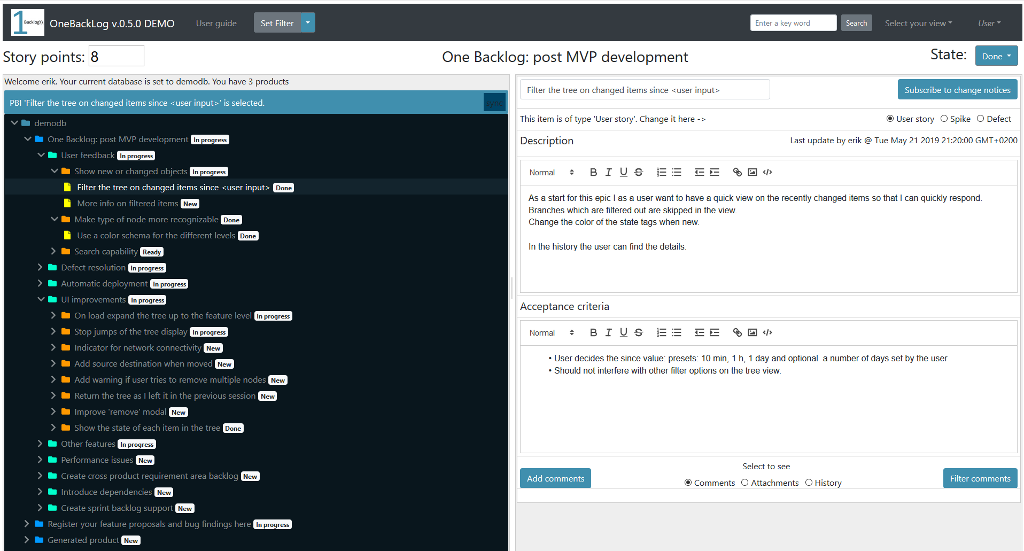
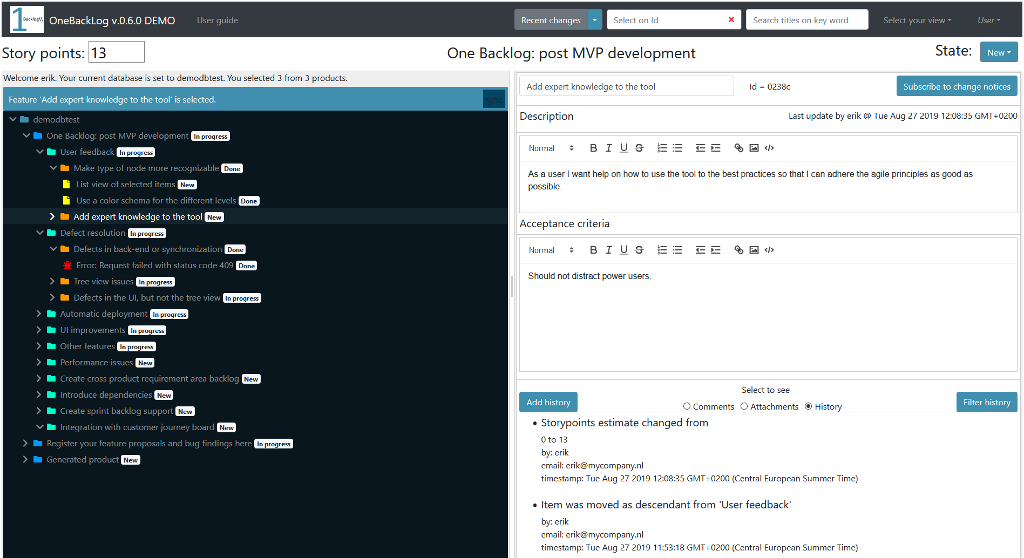
Prepare for release

diff --git a/src/components/userguide/userguide.vue b/src/components/userguide/userguide.vue
@@ -5,15 +5,24 @@
 				<h1>USER GUIDE</h1>
 				<p v-if=this.$store.state.demo>Note: This is a demo version of the application. Do not use it for production.</p>
 				<h4>The header</h4>
-				<p class="indent10">Always mention the version number located after the app name when reporting issues. When you click on the release number you will get the <b>realease notes</b>.</p>
+				<p class="indent10">Always mention the version number located after the app name when reporting issues. When you click on the release number you will the <b>realease notes </b> will be displayed.</p>
 				<h5>User guide</h5>
 				<p class="indent10">This text</p>
 				<h5>Filter on time</h5>
 				<p class="indent10">With the split button next to the 'user guide' you can open a drop down list with 3 choices: Show the changes in the last 10 minutes, in the last hour and in the last 24 hours. After selecting an option the items changed in the chosen time frame will be selected. Branches not changed will not show. To return to the normal view press the button which now has the text 'Clear filter'. Note that this function works on the currently selected product. To see changes on another product select it first by clicking on one of its nodes.</p>
+				<h5>Select on Id</h5>
+				<p class="indent10">All product items have a short Id for easy lookup and reference. This Id is 5 characters long. It is displayed in the product view right from the item title. When you select on an Id:
+				<ul>
+					<li>The item is found in the currently selected and opened product. The item will be selected and highlighted in the tree view.</li>
+					<li>The item is found in the currently selected product but that product is not opened. The product will be opened and item will be selected and highlighted in the tree view</li>
+					<li>The item is found in a product assigned to you which is not selected. You get a message but the item is displayed anyway.</li>
+					<li>The item is found in a product NOT assigned to you. You get a message but the item is NOT accessable to you.</li>
+					<li>The item is NOT found in the database. You get a message. Check if you made a mistype.</li>
+					<li>More than one item with this Id was found. You get a message dat the first occurrence was picked. This unlikely event is logged for the server admin. Contact him/her and agree on which item should become a new short Id.</li>
+				</ul>
+				To undo the select clear the 'Select on Id' input field and press Enter.</p>
 				<h5>Search on key word</h5>
-				<p class="indent10">Input field for the search button. Searches for the keyword in the title of all items of the current product. To return to the normal view empty the search field and press enter or empty the search field and click the search button.</p>
-				<h5>Search button</h5>
-				<p class="indent10">When clicked all items in the current product with the keyword in the title will expand.</p>
+				<p class="indent10">Input field for the search button. Searches for the keyword in the title of all items of the current product. To return to the normal view empty the search field and press enter.</p>
 				<h5>Filter on time + Search on key word</h5>
 				<p class="indent10">When you start a search when a filter is in effect or visa versa the other selection will be cleared first. You cannot have two selections on top of each other.</p>
 				<h5>Select your view</h5>
@@ -21,10 +30,16 @@
 				<p class="indent10"><a href="#rv">Requirements areas view</a></p>
 				<p class="indent10"><a href="#sv">Setup view</a></p>
 				<h5>User</h5>
-				<p class="indent10">Change team: not yet implemented.</p>
-				<p class="indent10">Change password: not yet implemented.</p>
-				<p class="indent10">License information: click to see the license regarding the source code.</p>
-				<p class="indent10">Sign out: Preferred way to sign out. Will stop the cookie authentication and reset the URL to sign in again. When you reset your browser with F5 or Ctrl-F5 you need to reset the URL your self.</p>
+				<p class="indent10">
+				<ul>
+					<li>Change team: Not yet implemented.</li>
+					<li>Select products: If multiple products are assigned to you, you can choose which of the should load on sign-in. You also need to choose which is the default product which loads first and open automatically.</li>
+					<li>Change password: You need to know your old password. The password of user demoUser cannot be changed.</li>
+					<li>License information: click to see the license regarding the source code.</li>
+					<li>Sign out: Preferred way to sign out. Will stop the cookie authentication and reset the URL to sign in again. When you reset your browser with F5 or Ctrl-F5 you need to reset the URL your self.</li>
+				</ul>
+				</p>
+
 				<div id="pv">
 					<h4>Products view</h4>
 					<p class="indent10">The products view is the heart of the application. Here are the product backlog items created, maintained during their life cycle and prioritized by the product owner.</p>
@@ -114,30 +129,29 @@
 </template>
 
 <style lang="css" scoped>
-	.left-column {
-		text-align: left;
-		background-color: #408FAE;
-		color: white;
-		border: 1px solid black;
-	}
+.left-column {
+  text-align: left;
+  background-color: #408fae;
+  color: white;
+  border: 1px solid black;
+}
 
-	.indent10 {
-		margin-left: 10px;
-		color: black;
-	}
+.indent10 {
+  margin-left: 10px;
+  color: black;
+}
 
-	.indent20 {
-		margin-left: 20px;
-		color: black;
-	}
+.indent20 {
+  margin-left: 20px;
+  color: black;
+}
 
-	a {
-		color: black;
-		text-decoration: underline;
-	}
+a {
+  color: black;
+  text-decoration: underline;
+}
 
-	img {
-		margin-bottom: 10px
-	}
-
+img {
+  margin-bottom: 10px;
+}
 </style>

diff --git a/src/store/modules/setup.js b/src/store/modules/setup.js
@@ -70,6 +70,7 @@ const actions = {
 		// create a new document and store it
 		const newDoc = {
 			"_id": _id,
+			"shortId": _id.slice(-5),
 			"type": "backlogItem",
 			"productId": _id,
 			"parentId": 'root',
@@ -139,6 +140,7 @@ const actions = {
 		// create a new document and store it
 		const newDoc = {
 			"_id": _id,
+			"shortId": _id.slice(-5),
 			"type": "backlogItem",
 			"productId": payload.productId,
 			"parentId": payload.parentId,
@@ -210,6 +212,7 @@ const actions = {
 		// create a new document and store it
 		const newDoc = {
 			"_id": _id,
+			"shortId": _id.slice(-5),
 			"type": "backlogItem",
 			"productId": payload.productId,
 			"parentId": payload.parentId,
@@ -280,6 +283,7 @@ const actions = {
 		// create a new document and store it
 		const newDoc = {
 			"_id": _id,
+			"shortId": _id.slice(-5),
 			"type": "backlogItem",
 			"productId": payload.productId,
 			"parentId": payload.parentId,
@@ -652,7 +656,7 @@ const actions = {
 				state.errorMessage = error.message
 			})
 
-		// Add the _design document
+		// Add the _design documents
 		globalAxios({
 			method: 'PUT',
 			url: payload.dbName + '/_design/design1',
@@ -671,7 +675,14 @@ const actions = {
 					 */
 					"changesFilter": {
 						"map": 'function (doc) {if (doc.type == "backlogItem" && doc.history[0].distributeEvent) emit(doc._id, 1);}'
+					},
+					/*
+					 * Filter on document type 'backlogItem', then sort on shortId.
+					 */
+					"shortIdFilter" : {
+						"map": 'function (doc) {if (doc.type == "backlogItem" && doc.level > 1) emit([doc.shortId], 1);}'
 					}
+
 				},
 				"language": "javascript"
 			}
@@ -774,6 +785,7 @@ const actions = {
 				},
 				{
 					"_id": "root",
+					"shortId": "0",
 					"type": "backlogItem",
 					"level": 1,
 					"title": "The root of all products in this database",
@@ -797,6 +809,7 @@ const actions = {
 				},
 				{
 					"_id": "1552140438968e1e9",
+					"shortId": "8e1e9",
 					"type": "backlogItem",
 					"productId": "15521398069875394",
 					"parentId": "1552139972020f641",
@@ -829,6 +842,7 @@ const actions = {
 				},
 				{
 					"_id": "15521397677068926",
+					"shortId": "68926",
 					"type": "backlogItem",
 					"productId": null,
 					"parentId": "root",
@@ -857,6 +871,7 @@ const actions = {
 				},
 				{
 					"_id": "15521398069875394",
+					"shortId": "75394",
 					"type": "backlogItem",
 					"productId": "15521398069875394",
 					"parentId": "root",
@@ -888,6 +903,7 @@ const actions = {
 				},
 				{
 					"_id": "15521399035145bef",
+					"shortId": "45bef",
 					"type": "backlogItem",
 					"productId": "15521398069875394",
 					"parentId": "15521398069875394",
@@ -919,6 +935,7 @@ const actions = {
 				},
 				{
 					"_id": "15537241758603a32",
+					"shortId": "03a32",
 					"type": "backlogItem",
 					"productId": "15521398069875394",
 					"parentId": "15521398069875394",
@@ -950,6 +967,7 @@ const actions = {
 				},
 				{
 					"_id": "1552139972020f641",
+					"shortId": "0f641",
 					"type": "backlogItem",
 					"productId": "15521398069875394",
 					"parentId": "15521399035145bef",
@@ -982,6 +1000,7 @@ const actions = {
 				},
 				{
 					"_id": "1552139986318cf68",
+					"shortId": "8cf68",
 					"type": "backlogItem",
 					"productId": "15521398069875394",
 					"parentId": "1552139972020f641",
@@ -1014,6 +1033,7 @@ const actions = {
 				},
 				{
 					"_id": "1552406429497867d",
+					"shortId": "7867d",
 					"type": "backlogItem",
 					"productId": "15521398069875394",
 					"parentId": "1552139972020f641",
@@ -1047,6 +1067,7 @@ const actions = {
 
 				{
 					"_id": "1552152600149c2ac",
+					"shortId": "9c2ac",
 					"type": "backlogItem",
 					"productId": "1552152600149c2ac",
 					"parentId": "root",
@@ -1078,6 +1099,7 @@ const actions = {
 				},
 				{
 					"_id": "155215264241301dd",
+					"shortId": "301dd",
 					"type": "backlogItem",
 					"productId": "1552152600149c2ac",
 					"parentId": "1552152600149c2ac",
@@ -1109,6 +1131,7 @@ const actions = {
 				},
 				{
 					"_id": "1552152658206bb2f",
+					"shortId": "6bb2f",
 					"type": "backlogItem",
 					"productId": "1552152600149c2ac",
 					"parentId": "155215264241301dd",

diff --git a/src/components/header/header.vue b/src/components/header/header.vue
@@ -244,12 +244,12 @@ export default {
           // update current productId and title
           this.$store.state.load.currentProductId = node.productId
           this.$store.state.load.currentProductTitle = window.slVueTree.getProductTitle(node.productId)
-          this.showLastEvent(`The item is found in product '${this.$store.state.load.currentProductTitle}'`, INFO)
         } else {
           productSwitch = false
           // node on current product; collapse the currently selected product
           window.slVueTree.collapseTree(this.$store.state.load.currentProductId)
         }
+        this.showLastEvent(`The item is found in product '${this.$store.state.load.currentProductTitle}'`, INFO)
         // expand the newly selected product up to the found item
         window.slVueTree.showItem(node)
         // load the document if not already in memory

diff --git a/src/components/rel-notes/rel-notes.vue b/src/components/rel-notes/rel-notes.vue
@@ -5,6 +5,22 @@
 				<h1>RELEASE NOTES</h1>
 				<p v-if=this.$store.state.demo>Note: This is a demo version of the application. Do not use it for production.</p>
 				<hr>
+				<h3>v.0.6.0 - 27 August 2019 Major update</h3>
+				<p>New features:</p>
+				<ul>
+					<li>Load only the products I am interested in now; Let me choose</li>
+					<li>Have a short reference for items for communication and lookup</li>
+				</ul>
+				<p>Bug fixes:</p>
+				<ul>
+					<li>Product title not updated when switching</li>
+					<li>Product nodes do not show that they are selected</li>
+				</ul>
+				<p>Performance improvements:</p>
+				<ul>
+					<li>Enhance drag &amp; drop performance</li>
+				</ul>
+				<hr>
 				<h3>v.0.5.5 - 19 August 2019 Urgent fix</h3>
 				<p>Bug fixes:</p>
 				<ul>

diff --git a/src/components/sl-vue-tree/sl-vue-tree.js b/src/components/sl-vue-tree/sl-vue-tree.js
@@ -334,7 +334,7 @@ export default {
 
 		getCursorPositionFromCoords(x, y) {
 			const $target = document.elementFromPoint(x, y);
-			const $nodeItem = $target.getAttribute('path') ? $target : this.getClosetElementWithPath($target);
+			const $nodeItem = $target.getAttribute('path') ? $target : this.getClosestElementWithPath($target);
 			let destNode;
 			let placement;
 
@@ -379,10 +379,10 @@ export default {
 			};
 		},
 
-		getClosetElementWithPath($el) {
+		getClosestElementWithPath($el) {
 			if (!$el) return null;
 			if ($el.getAttribute('path')) return $el;
-			return this.getClosetElementWithPath($el.parentElement);
+			return this.getClosestElementWithPath($el.parentElement);
 		},
 
 		getProductTitle(productId) {

diff --git a/src/store/modules/load.js b/src/store/modules/load.js
@@ -471,7 +471,7 @@ const actions = {
 					} else {
 						commit('showLastEvent', {txt: `${rows.length} documents with id ${shortId} are found. The first one is displayed.`, severity: INFO})
 						let ids = ''
-						for (let i =0 ; i < rows.length; i++) {
+						for (let i = 0 ; i < rows.length; i++) {
 							ids += rows[i].doc._id + ', '
 						}
 						const msg = 'Multiple documents found for shortId ' + shortId + ' The documents ids are ' + ids

diff --git a/src/components/product/product.vue b/src/components/product/product.vue
@@ -111,7 +111,7 @@
                   <font-awesome-icon icon="bug" />
                 </i>
               </span>
-              {{ node.title }} : {{ node.shortId }}
+              {{ node.title }}
               <b-badge variant="light">{{ getItemStateText(node.data.state) }}</b-badge>
             </template>
 
